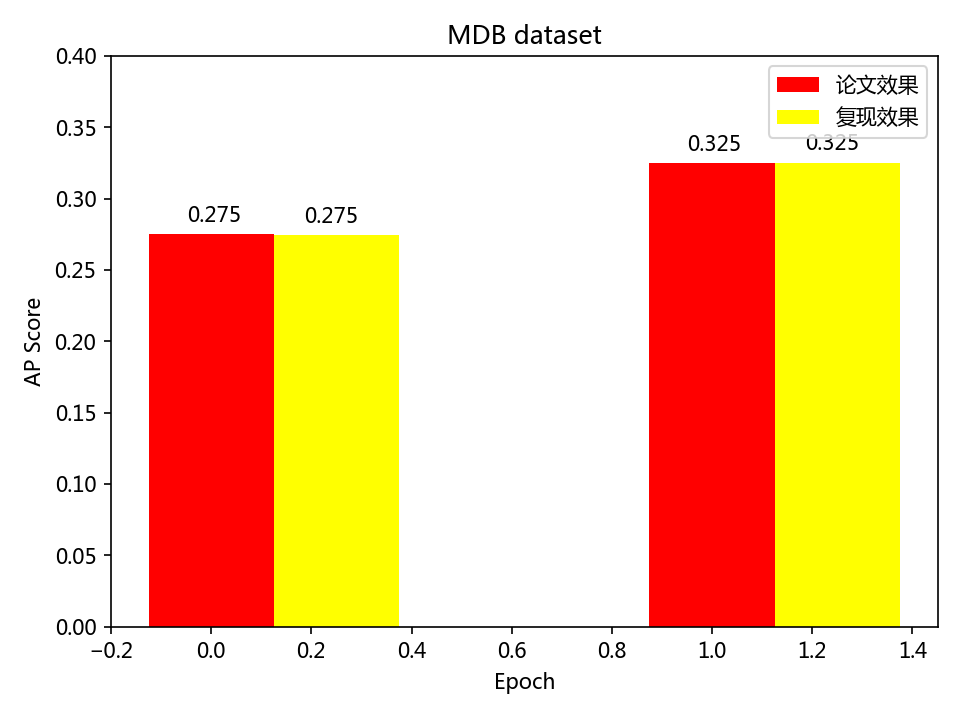
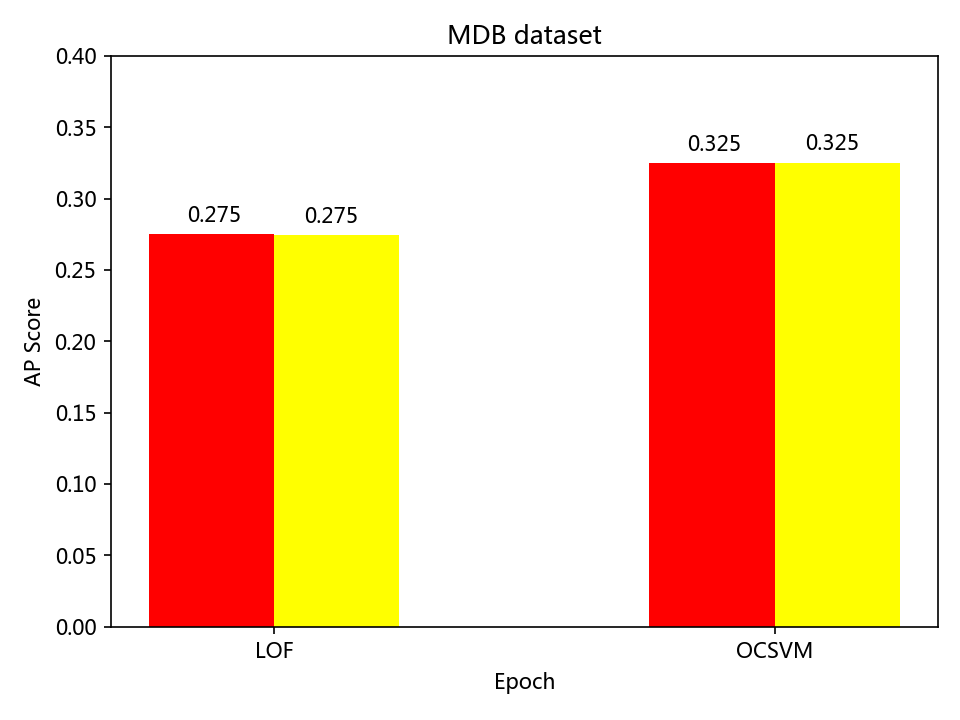
Update Image

diff --git a/plot/plot_cmp_MDB.py b/plot/plot_cmp_MDB.py
@@ -28,7 +28,7 @@ plt.title("MDB dataset")
 plt.ylabel("AP Score")
 plt.xlabel("Epoch")
 
-plt.legend()
+plt.xticks(X+bar_width/2, tick_label)
 plt.tight_layout()
 
 plt.savefig("effect-cmp-MDB.png",dpi=150)
